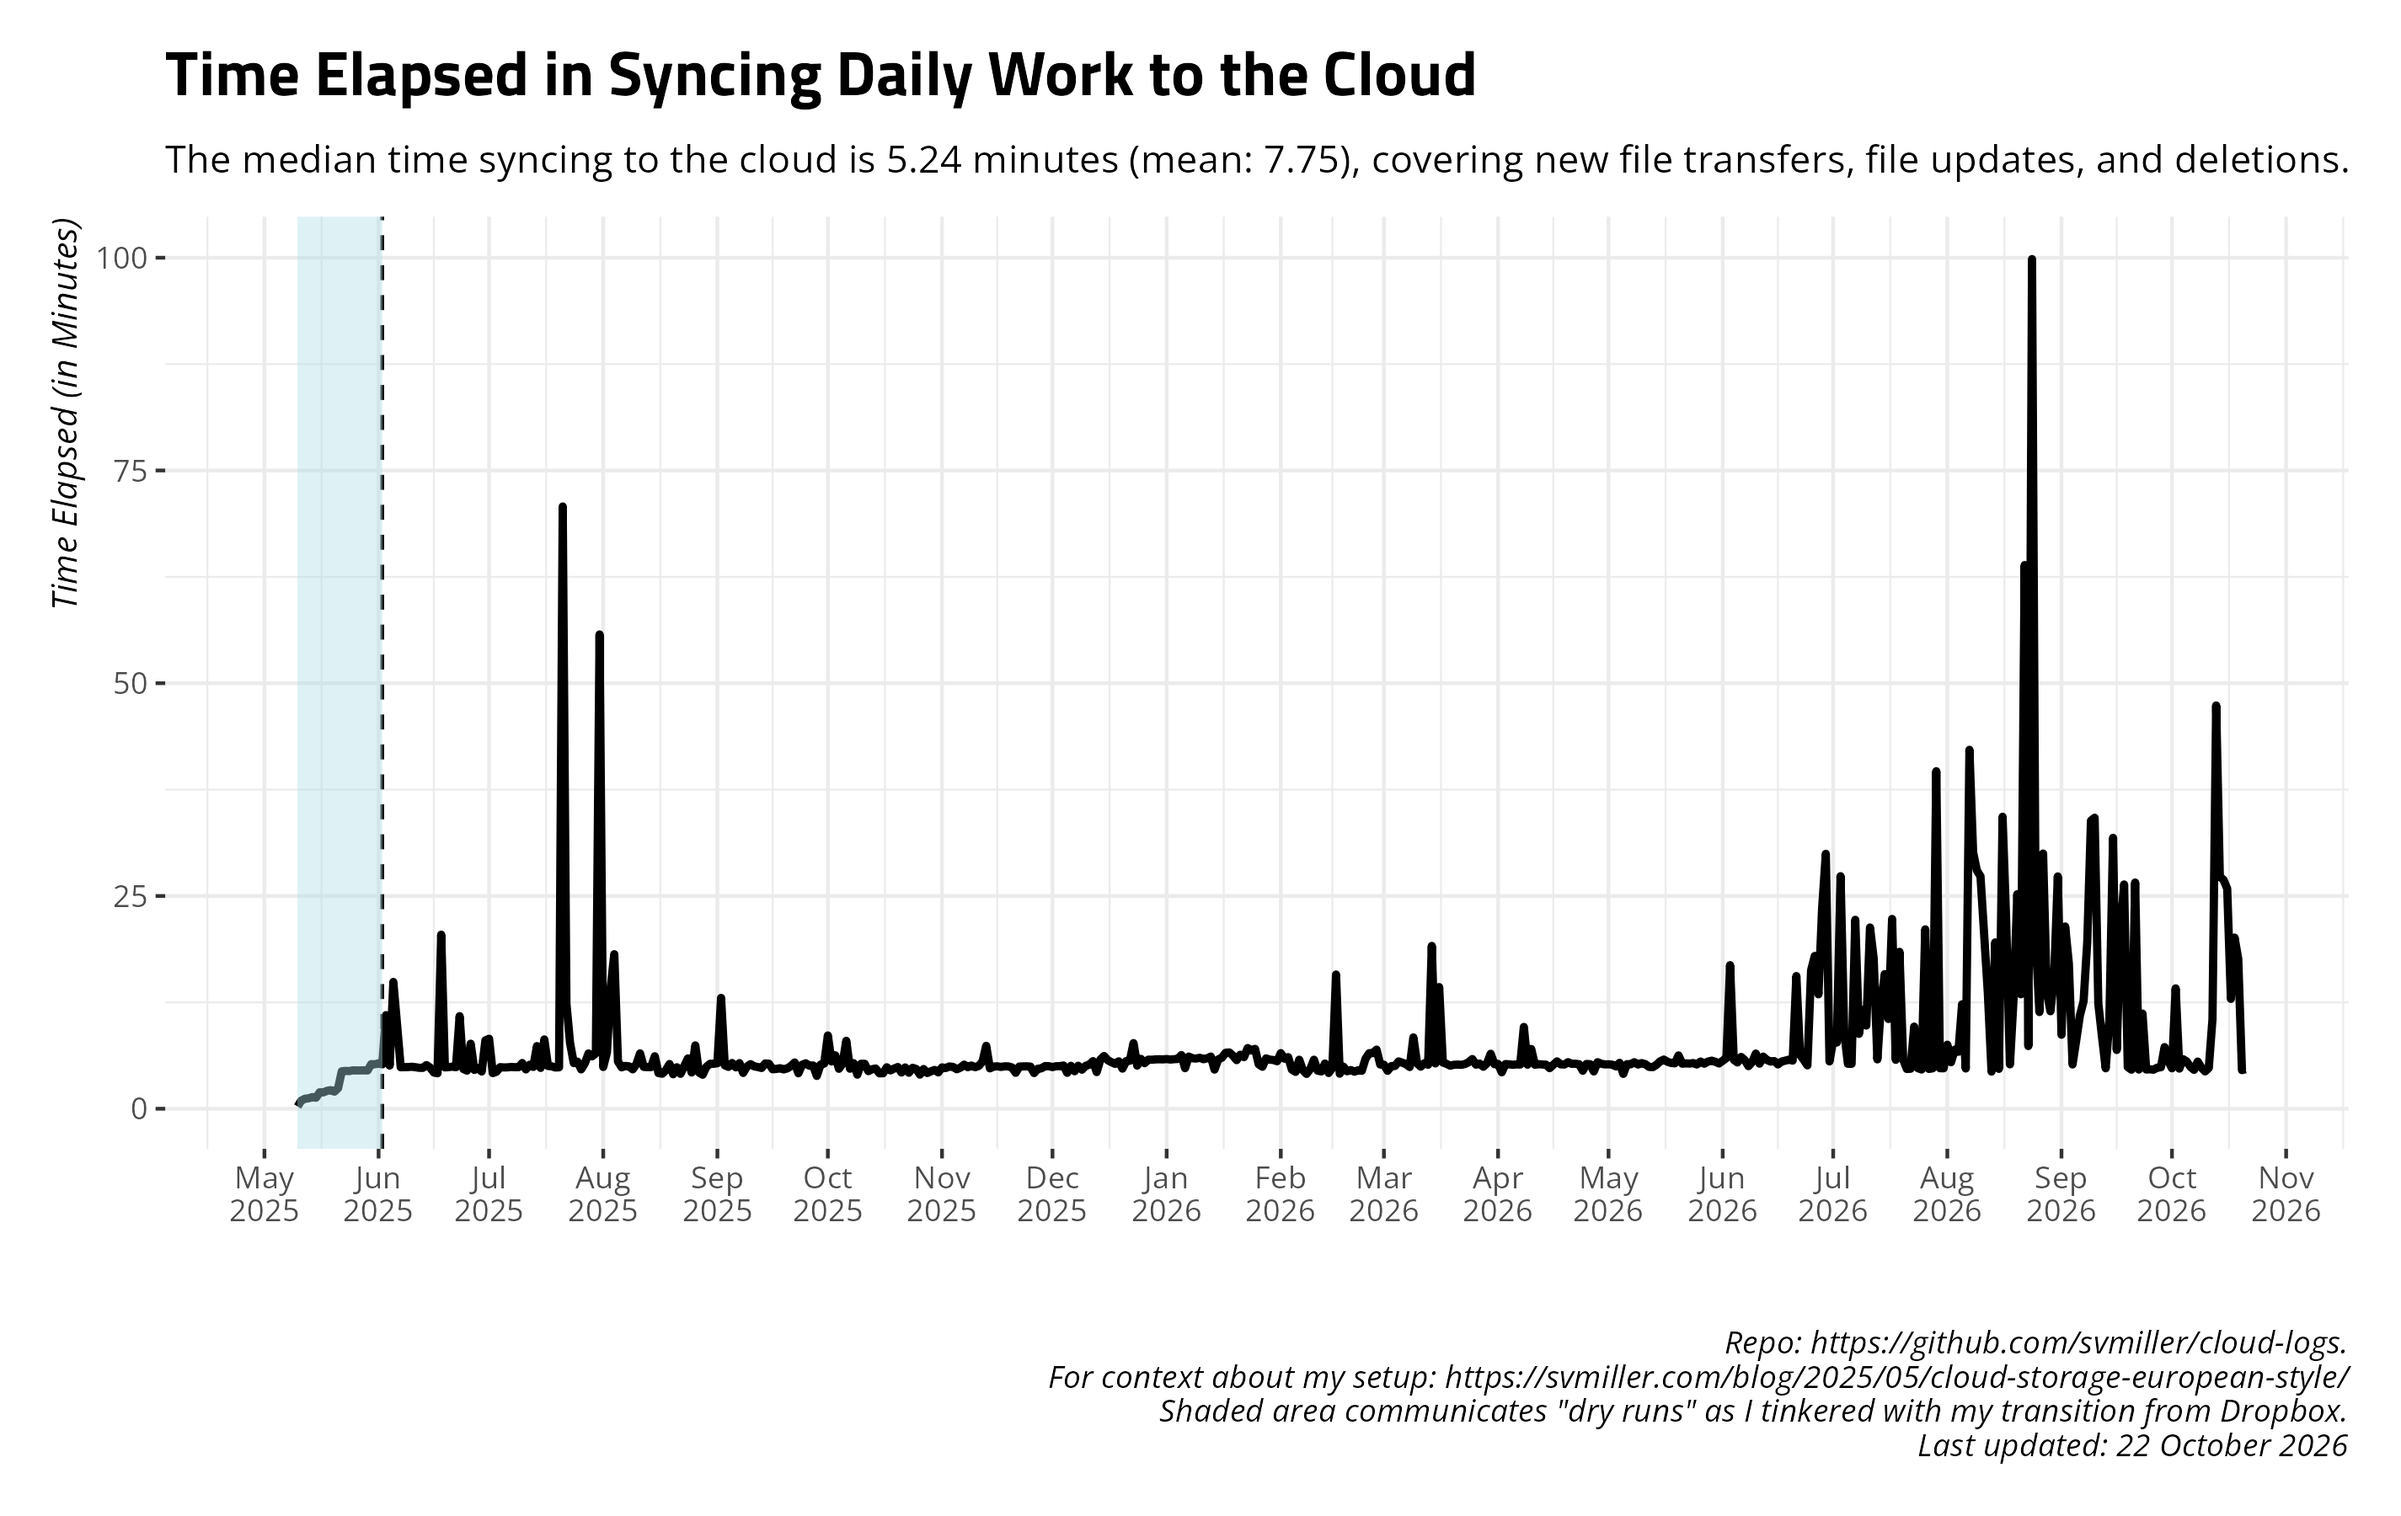
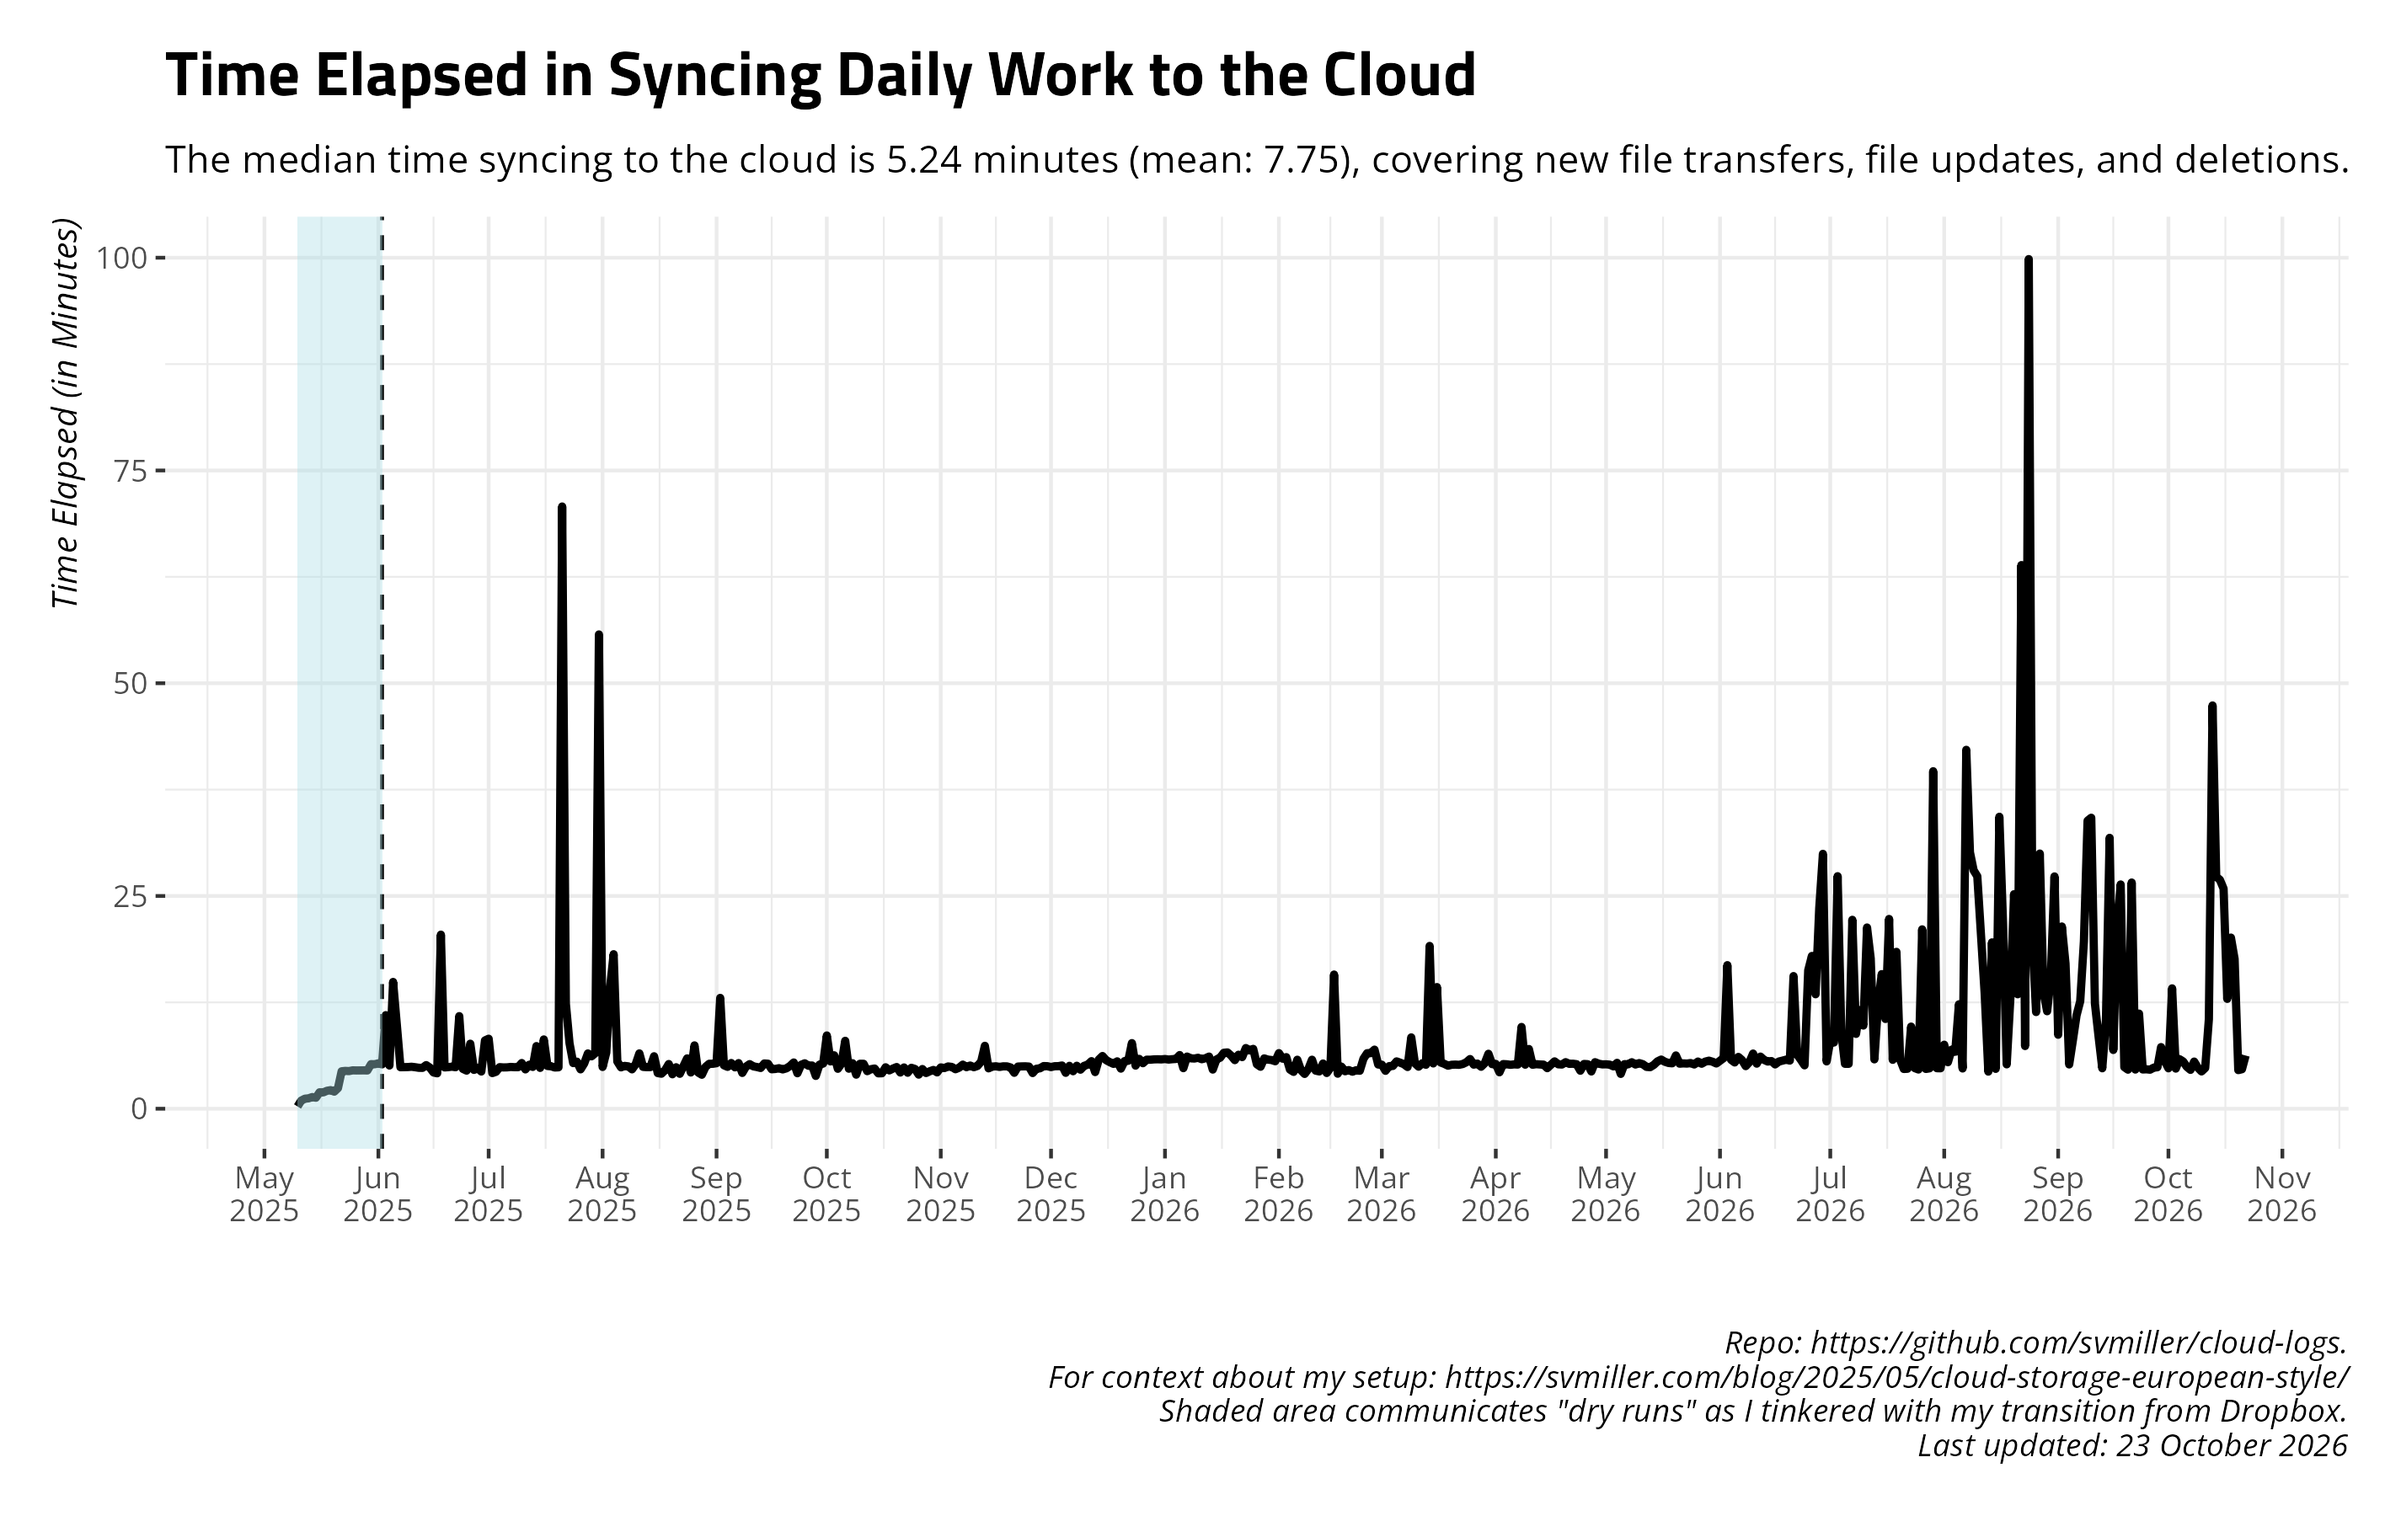
Date: 2026-10-23 09:00:36. Hi mom!

diff --git a/README.md b/README.md
@@ -27,17 +27,17 @@ and uploads to Github.
     #> # A tibble: 14 × 4
     #>    date       ftransfer stransfer   elapsed 
     #>    <date>         <dbl> <chr>       <chr>   
-    #>  1 2026-10-08         5 4.005 MiB   5m32.5s 
-    #>  2 2026-10-09         1 4.059 KiB   4m49.4s 
-    #>  3 2026-10-10         0 <NA>        4m23.0s 
-    #>  4 2026-10-11         0 <NA>        4m47.3s 
-    #>  5 2026-10-12       112 4.979 MiB   10m31.4s
-    #>  6 2026-10-13         8 124.477 MiB 47m23.4s
-    #>  7 2026-10-14         0 <NA>        27m16.0s
-    #>  8 2026-10-15         9 5.339 MiB   26m53.8s
-    #>  9 2026-10-16       147 17.869 MiB  25m51.8s
-    #> 10 2026-10-17         0 <NA>        12m54.4s
-    #> 11 2026-10-18         0 <NA>        20m6.6s 
-    #> 12 2026-10-19       108 20.905 MiB  17m36.0s
-    #> 13 2026-10-20       396 2.903 MiB   4m32.2s 
-    #> 14 2026-10-21        32 1.412 MiB   4m38.6s
+    #>  1 2026-10-09         1 4.059 KiB   4m49.4s 
+    #>  2 2026-10-10         0 <NA>        4m23.0s 
+    #>  3 2026-10-11         0 <NA>        4m47.3s 
+    #>  4 2026-10-12       112 4.979 MiB   10m31.4s
+    #>  5 2026-10-13         8 124.477 MiB 47m23.4s
+    #>  6 2026-10-14         0 <NA>        27m16.0s
+    #>  7 2026-10-15         9 5.339 MiB   26m53.8s
+    #>  8 2026-10-16       147 17.869 MiB  25m51.8s
+    #>  9 2026-10-17         0 <NA>        12m54.4s
+    #> 10 2026-10-18         0 <NA>        20m6.6s 
+    #> 11 2026-10-19       108 20.905 MiB  17m36.0s
+    #> 12 2026-10-20       396 2.903 MiB   4m32.2s 
+    #> 13 2026-10-21        32 1.412 MiB   4m38.6s 
+    #> 14 2026-10-22        78 3.980 MiB   6m15.1s
